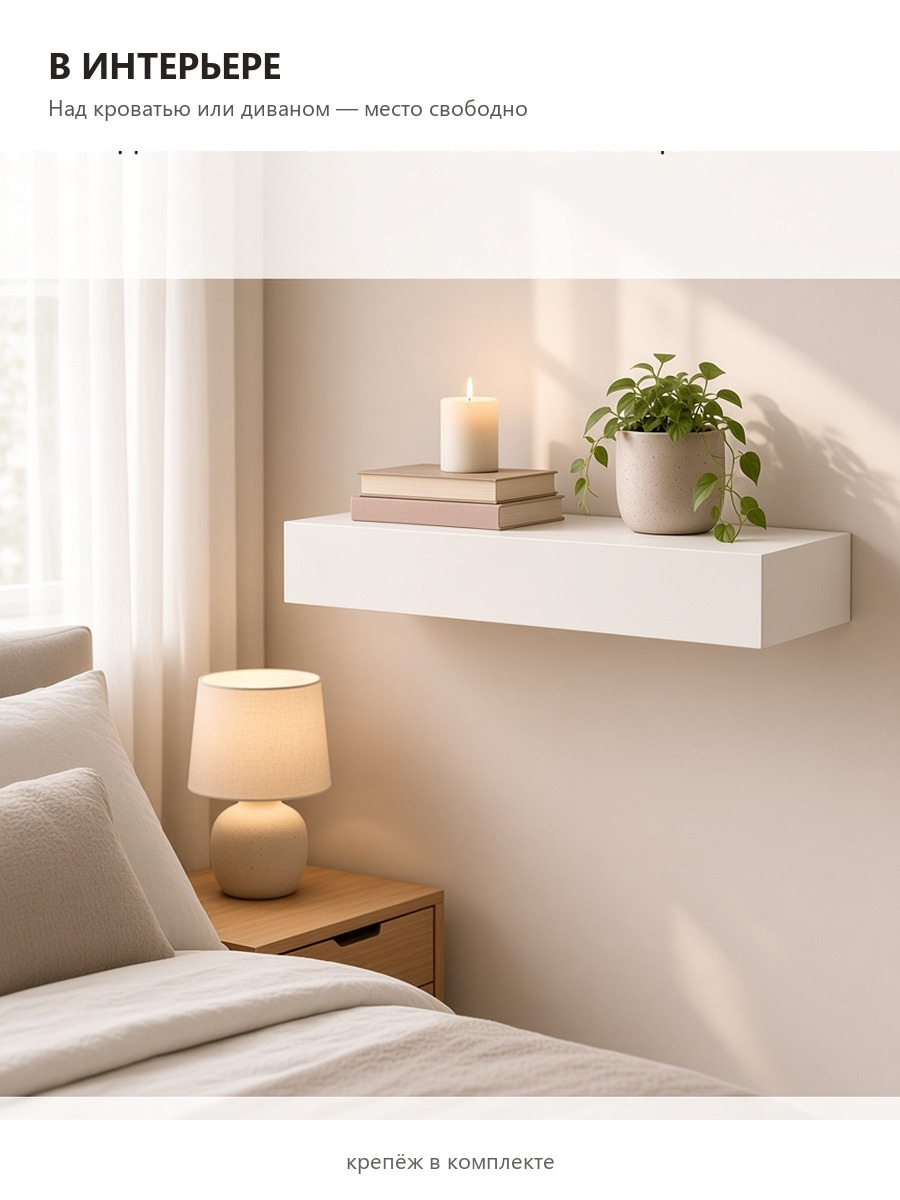
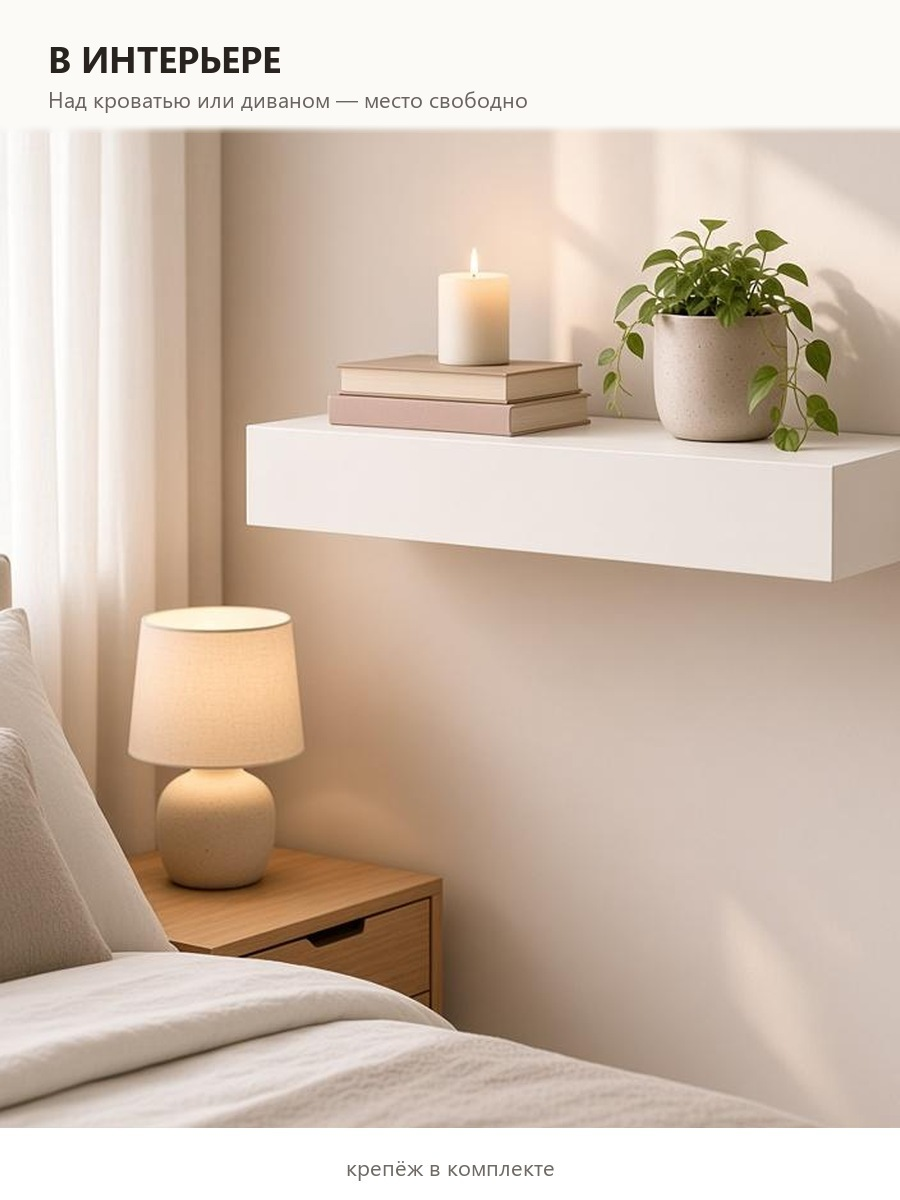
Fix shelf 02 header strip and 03 title overlap.
Remove the accidental white bar on lifestyle; give dims title clear space above the photo.

diff --git a/public/marketplace/index.html b/public/marketplace/index.html
@@ -215,8 +215,8 @@
         </div>
         <div class="mp-slides">
           <figure class="mp-slide"><img src="../images/marketplace/case2/01_cover.jpg?v=20261027h" alt="Обложка навесной полки" loading="lazy" width="450" height="600"><figcaption>01 · обложка</figcaption></figure>
-          <figure class="mp-slide"><img src="../images/marketplace/case2/02_lifestyle.jpg" alt="Полка в интерьере" loading="lazy" width="450" height="600"><figcaption>02 · в интерьере</figcaption></figure>
-          <figure class="mp-slide"><img src="../images/marketplace/case2/03_specs_dims.jpg?v=20261027i" alt="Размеры и нагрузка" loading="lazy" width="450" height="600"><figcaption>03 · размеры</figcaption></figure>
+          <figure class="mp-slide"><img src="../images/marketplace/case2/02_lifestyle.jpg?v=20261027j" alt="Полка в интерьере" loading="lazy" width="450" height="600"><figcaption>02 · в интерьере</figcaption></figure>
+          <figure class="mp-slide"><img src="../images/marketplace/case2/03_specs_dims.jpg?v=20261027j" alt="Размеры и нагрузка" loading="lazy" width="450" height="600"><figcaption>03 · размеры</figcaption></figure>
           <figure class="mp-slide"><img src="../images/marketplace/case2/04_benefits.jpg?v=20261027f" alt="Выгоды полки" loading="lazy" width="450" height="600"><figcaption>04 · выгоды</figcaption></figure>
           <figure class="mp-slide"><img src="../images/marketplace/case2/05_compare.jpg?v=20261027f" alt="Сравнение со шкафом" loading="lazy" width="450" height="600"><figcaption>05 · сравнение</figcaption></figure>
         </div>

diff --git a/scripts/mp_layout_kit/rebuild_shelf_dims.py b/scripts/mp_layout_kit/rebuild_shelf_dims.py
@@ -60,7 +60,8 @@ def chip(draw, xy, w, h, label, value):
 def build() -> Path:
     out = Image.new("RGB", (W, H), BG)
     draw = ImageDraw.Draw(out)
-    text_center(draw, "Размеры и нагрузка", 18, fnt(36, True), INK)
+    # Title needs clear air above the photo (was overlapping at py≈52)
+    text_center(draw, "Размеры и нагрузка", 28, fnt(36, True), INK)
 
     # Large lifestyle — fills top, kills empty mid
     src = IMG / "case2" / "01_cover.jpg"
@@ -69,9 +70,9 @@ def build() -> Path:
     photo = Image.open(src).convert("RGB")
     sw, sh = photo.size
     crop = photo.crop((int(sw * 0.04), int(sh * 0.26), int(sw * 0.96), int(sh * 0.60)))
-    panel_w, panel_h = 852, 500
+    panel_w, panel_h = 852, 470
     panel = fit_cover(crop, (panel_w, panel_h))
-    px, py = (W - panel_w) // 2, 52
+    px, py = (W - panel_w) // 2, 96
     shad = Image.new("RGBA", (W, H), (0, 0, 0, 0))
     ImageDraw.Draw(shad).rounded_rectangle(
         (px + 2, py + 6, px + panel_w + 2, py + panel_h + 6), 20, fill=(0, 0, 0, 30)
